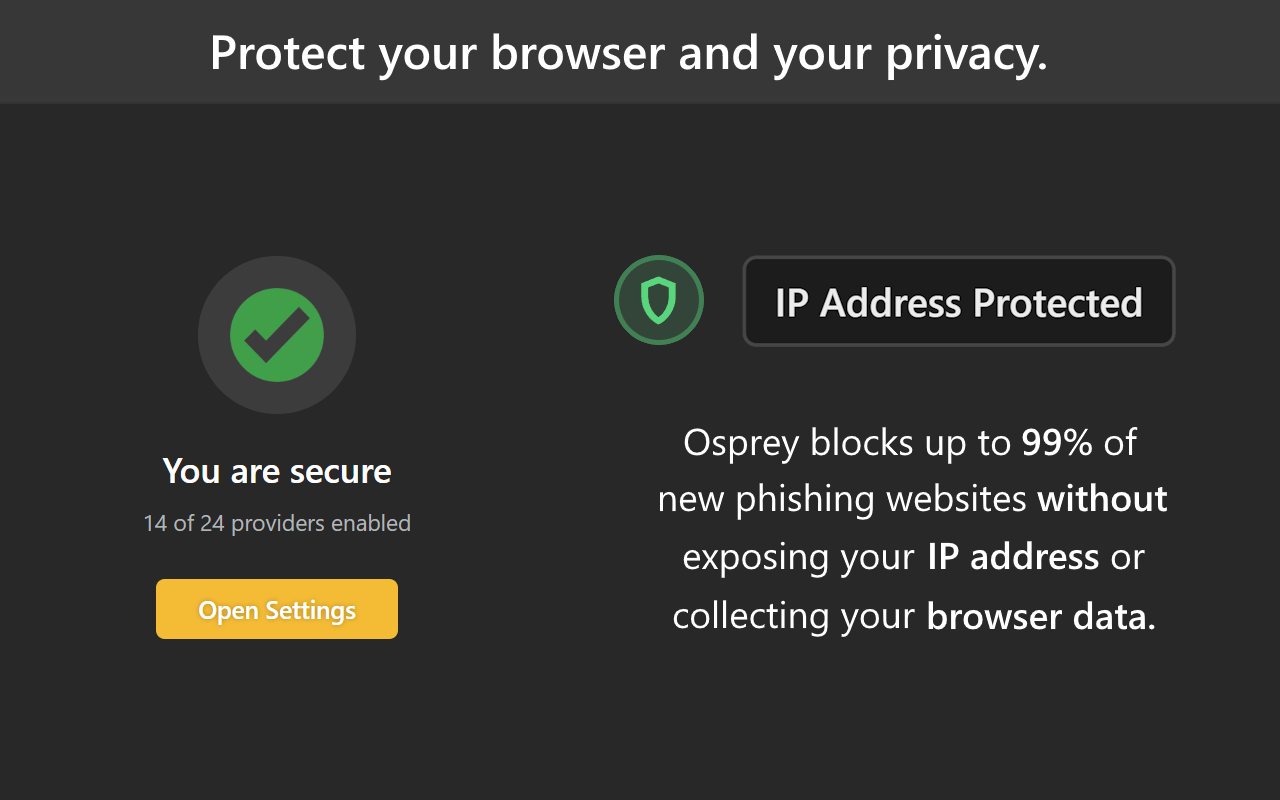
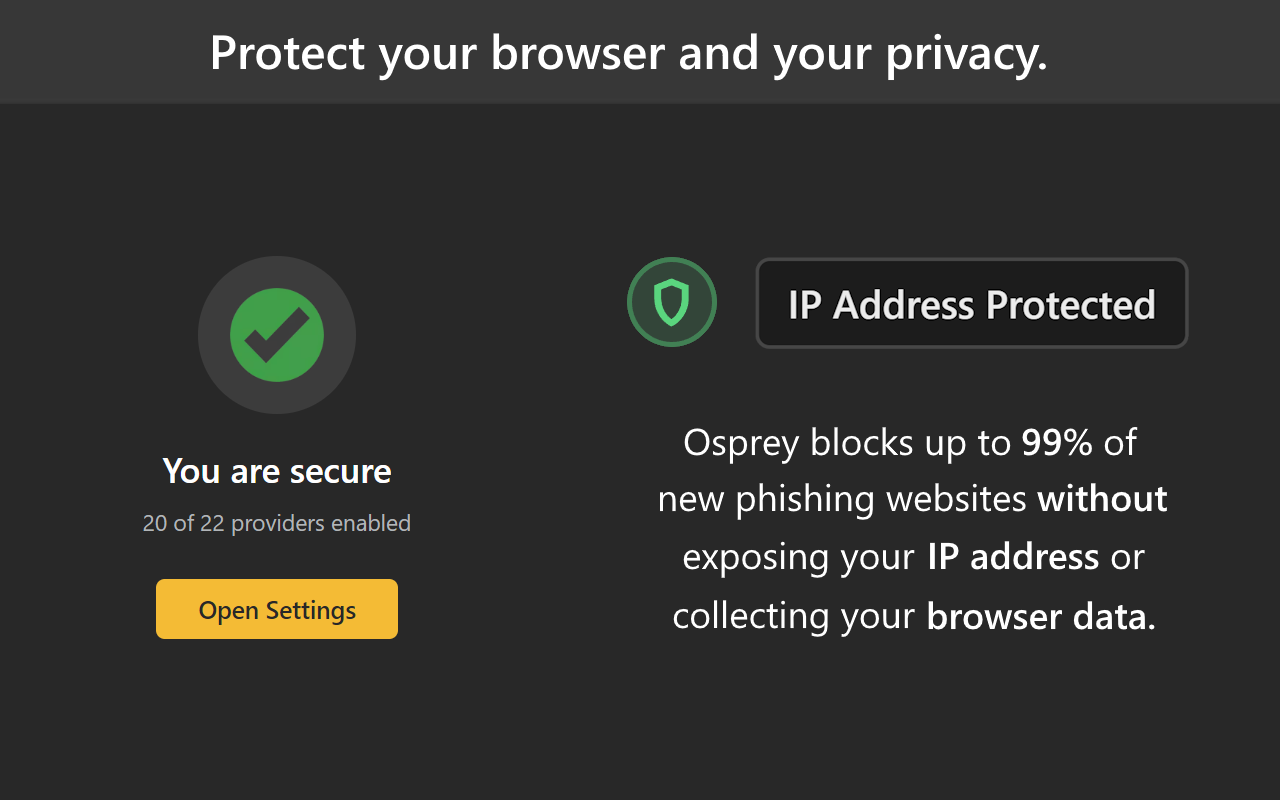
Updated promo image

Changed region(s): [[0.4688, 0.3125, 0.9375, 0.4375], [0.1562, 0.75, 0.2812, 0.7812], [0.0938, 0.625, 0.125, 0.6562]]

diff --git a/src/styles/global.css b/src/styles/global.css
@@ -421,7 +421,7 @@ html[data-theme="light"] .theme-toggle .icon-sun {
 .install-btn[data-browser] {
     background-color: var(--accent);
     border-color: var(--accent);
-    color: #1b1b1d;
+    color: #282828;
 }
 
 /*